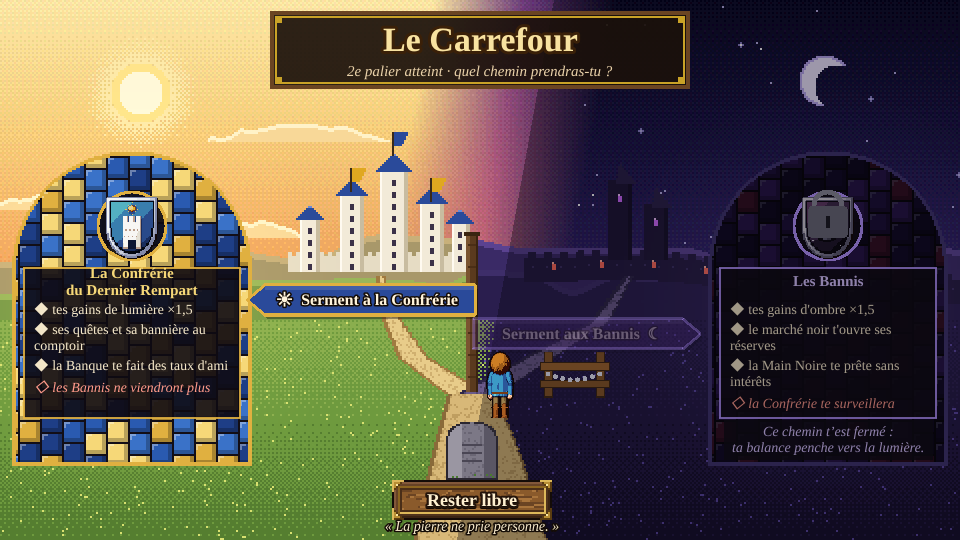
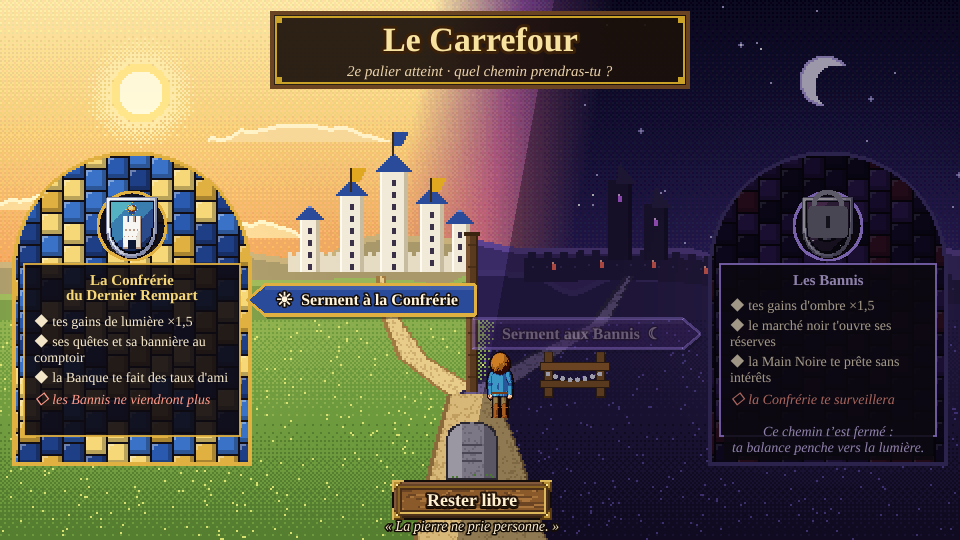
Planche 17 : titre des vitraux bien placé dans son cadre ; GDD : règle du Carrefour validée
Claude-Session: https://claude.ai/code/session_018kbaP56NxxNMUzmj9EfKBC

Changed region(s): [[0.0, 0.4741, 0.25, 0.8296], [0.75, 0.563, 0.9688, 0.8], [0.75, 0.4741, 0.9688, 0.5333]]

diff --git a/docs/game-design.md b/docs/game-design.md
@@ -861,7 +861,7 @@ Carrefour jour/nuit et vitraux, après le serment), la jauge en dégradé, le pa
 palier et le dédommagement à +1. La lumière qui va un peu plus vite que l'ombre est gardée : elle sert
 l'histoire (c'est le chemin que le monde encourage).
 
-**Qui peut jurer quoi au Carrefour (proposé par Claude, à confirmer)** : on ne peut jurer que du côté
+**Qui peut jurer quoi au Carrefour (validé le 16/10)** : on ne peut jurer que du côté
 où penche sa balance. Le Carrefour vient quand la jauge atteint 60 d'un côté ; le chemin d'en face
 reste visible, mais il est barré (barrière, vitrail grisé et cadenassé, « Ce chemin t'est fermé : ta
 balance penche vers la lumière »). Le joueur choisit donc entre **prêter serment à son côté** et
